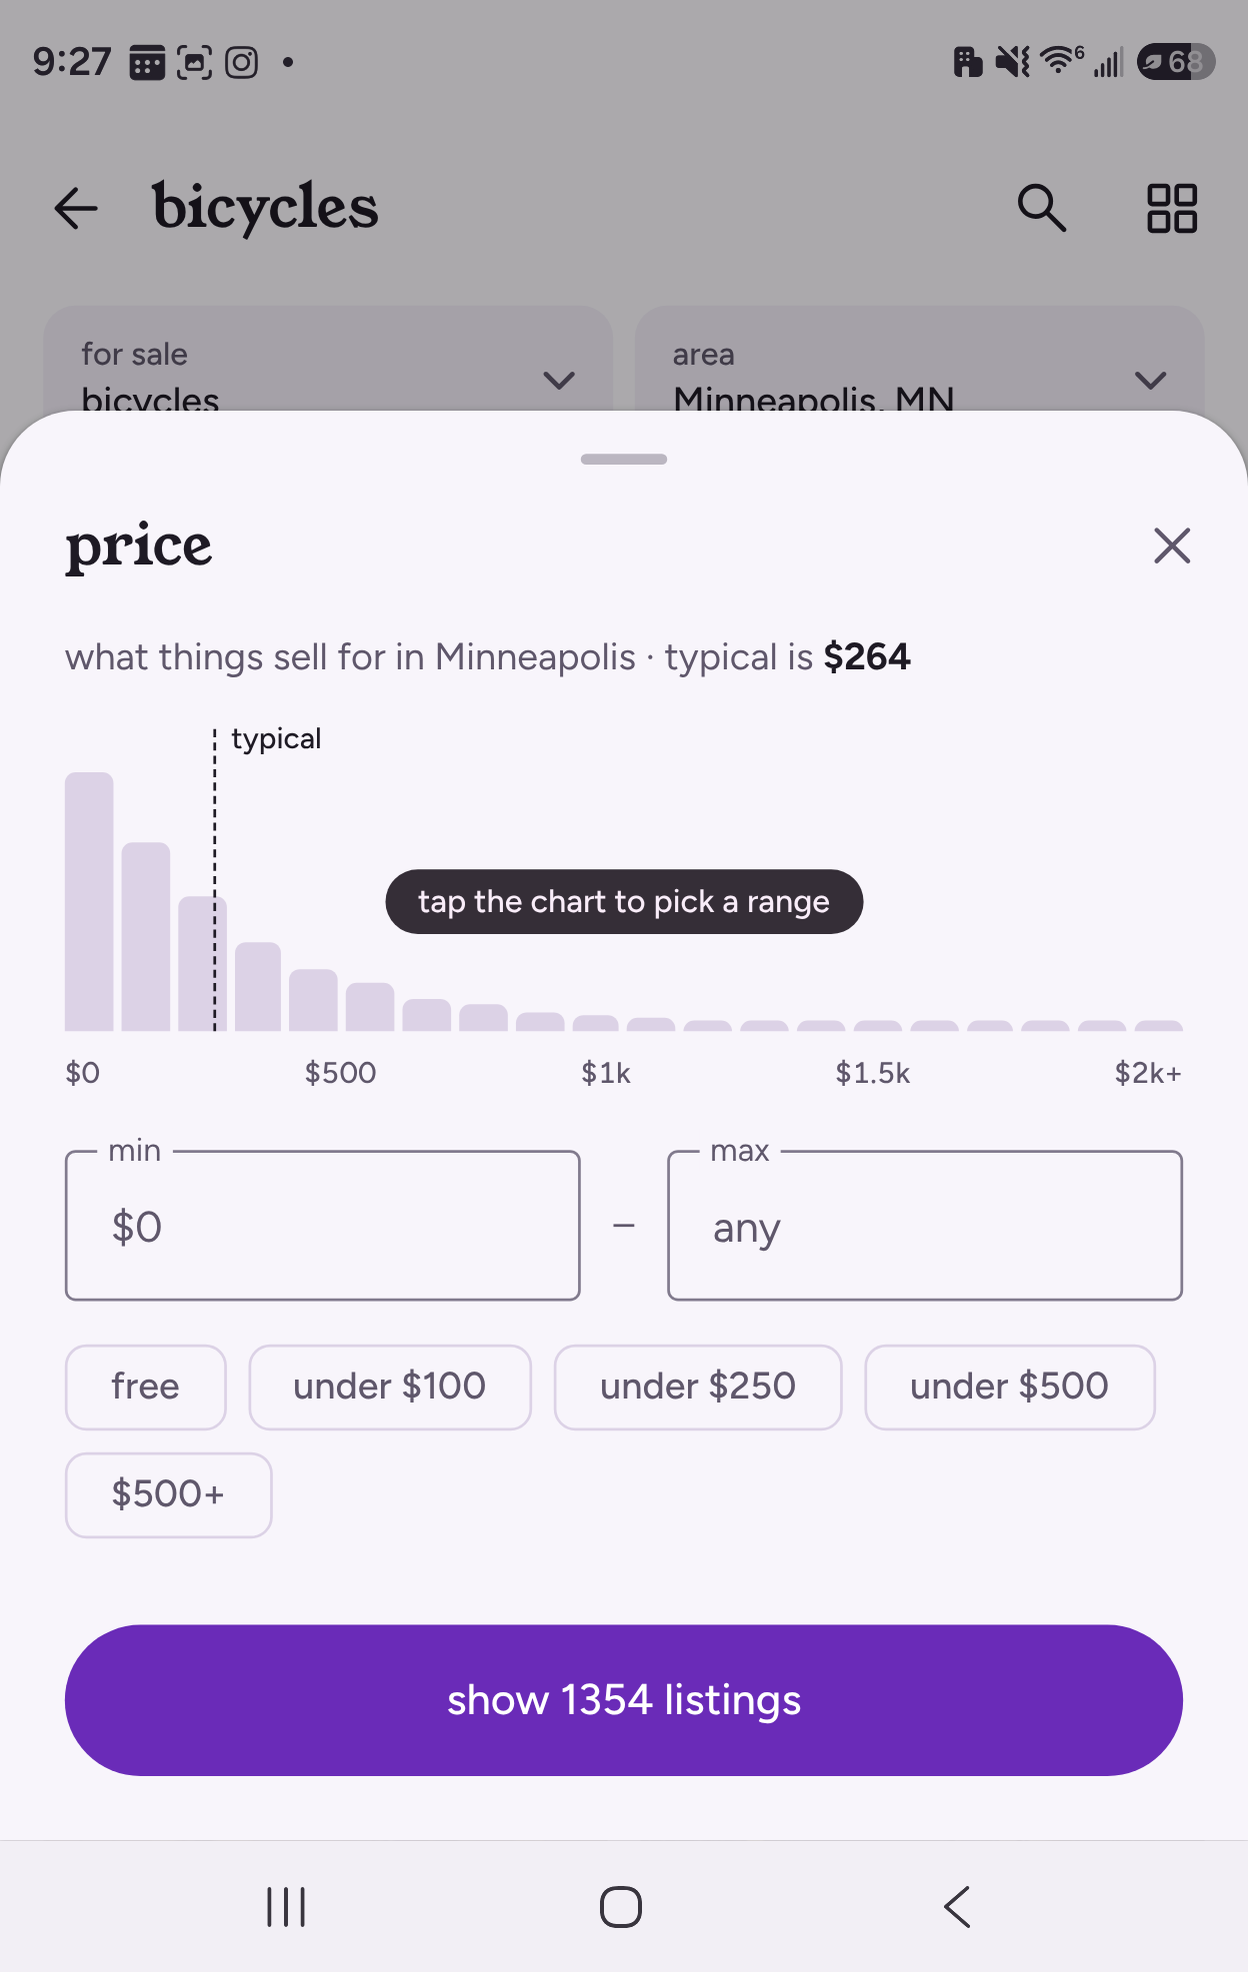
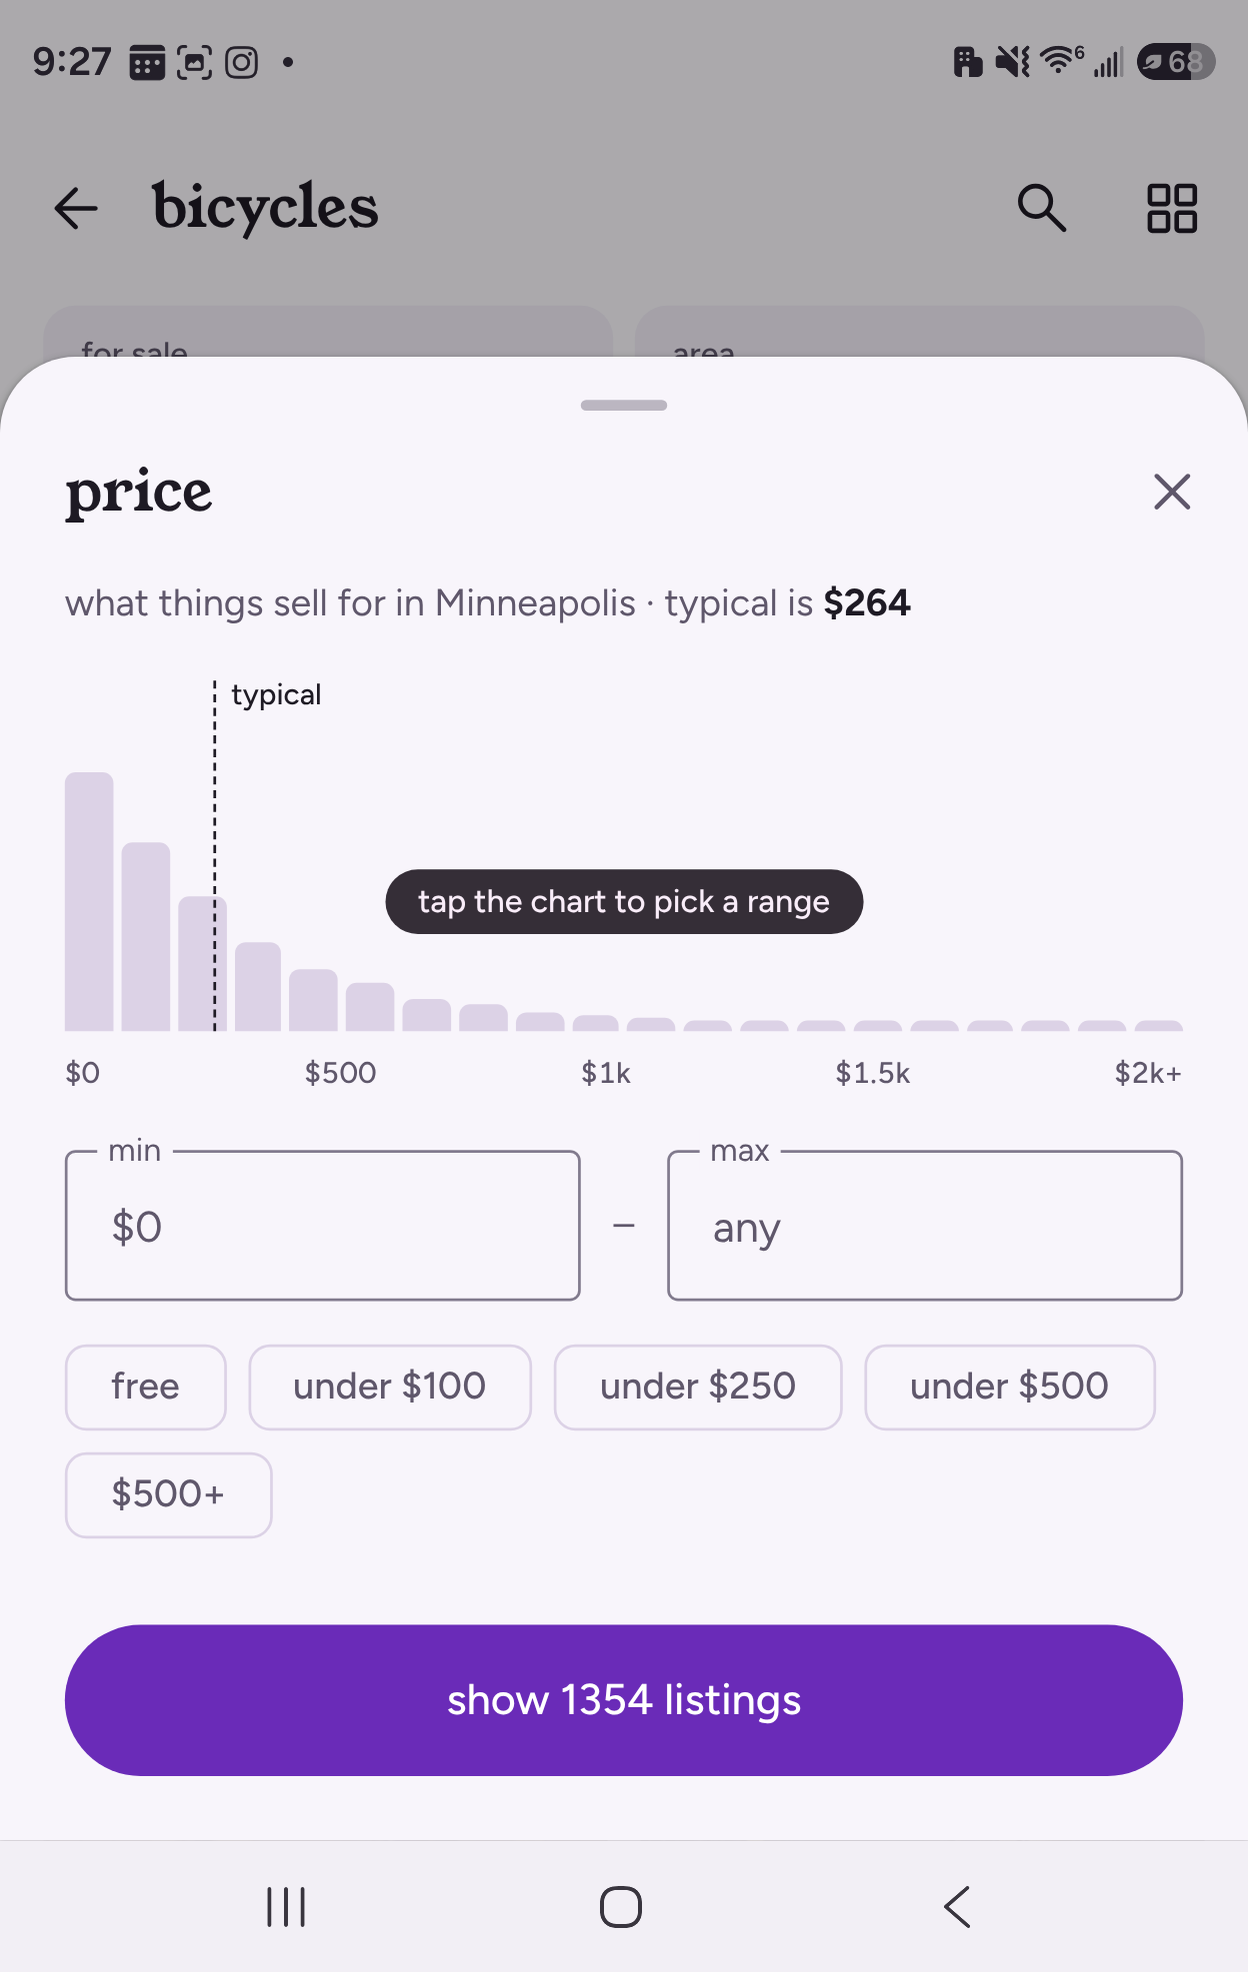
Give the typical label room above the price bracket
Claude-Session: https://claude.ai/code/session_01H3xU87F2bRsPtLC5hugNNH

Changed region(s): [[0.0, 0.1547, 1.0, 0.4021], [0.5312, 0.2784, 0.75, 0.3403], [0.9375, 0.2475, 0.9688, 0.2784]]

diff --git a/prototype/src/styles.css b/prototype/src/styles.css
@@ -239,11 +239,11 @@ button:disabled::before { display: none; }
 .radio-on { border-color: var(--md-sys-color-primary); }
 .radio-on::after { content: ""; width: 10px; height: 10px; border-radius: 50%; background: var(--md-sys-color-primary); }
 /* price histogram (custom view) */
-.histo { position: relative; height: 96px; display: flex; align-items: flex-end; gap: 3px; margin-top: 16px; }
+.histo { position: relative; height: 96px; display: flex; align-items: flex-end; gap: 3px; margin-top: 36px; }
 .bar { flex: 1; border-radius: var(--md-shape-xs) var(--md-shape-xs) 0 0; background: var(--md-sys-color-outline-variant); }
 .bar-on { background: var(--md-sys-color-primary); }
-.histo-avg { position: absolute; top: -16px; bottom: 0; width: 0; border-left: 1.5px dashed var(--md-sys-color-on-surface); }
-.histo-avg span { position: absolute; top: -4px; left: 6px; font: var(--md-label-small); white-space: nowrap; }
+.histo-avg { position: absolute; top: -34px; bottom: 0; width: 0; border-left: 1.5px dashed var(--md-sys-color-on-surface); }
+.histo-avg span { position: absolute; top: -2px; left: 6px; font: var(--md-label-small); line-height: 16px; white-space: nowrap; }
 .histo-axis { display: flex; justify-content: space-between; font: var(--md-label-small); color: var(--md-sys-color-on-surface-variant); font-variant-numeric: tabular-nums; margin-top: -8px; }
 /* M3 outlined text field */
 .price-inputs { display: flex; align-items: center; gap: 12px; margin-top: 4px; }

diff --git a/prototype/public/sw.js b/prototype/public/sw.js
@@ -1,7 +1,7 @@
 // Offline support. The app is one self-contained HTML file, so caching it plus
 // the manifest and icons is the whole app. Navigations go network-first so a
 // new deploy shows up on the next open; everything else is cache-first.
-const CACHE = 'craigslist-proto-v40'
+const CACHE = 'craigslist-proto-v41'
 const SHELL = ['./', 'index.html', 'manifest.webmanifest', 'icons/icon-192.png', 'icons/icon-512.png', 'icons/maskable-512.png']
 
 self.addEventListener('install', e => {
